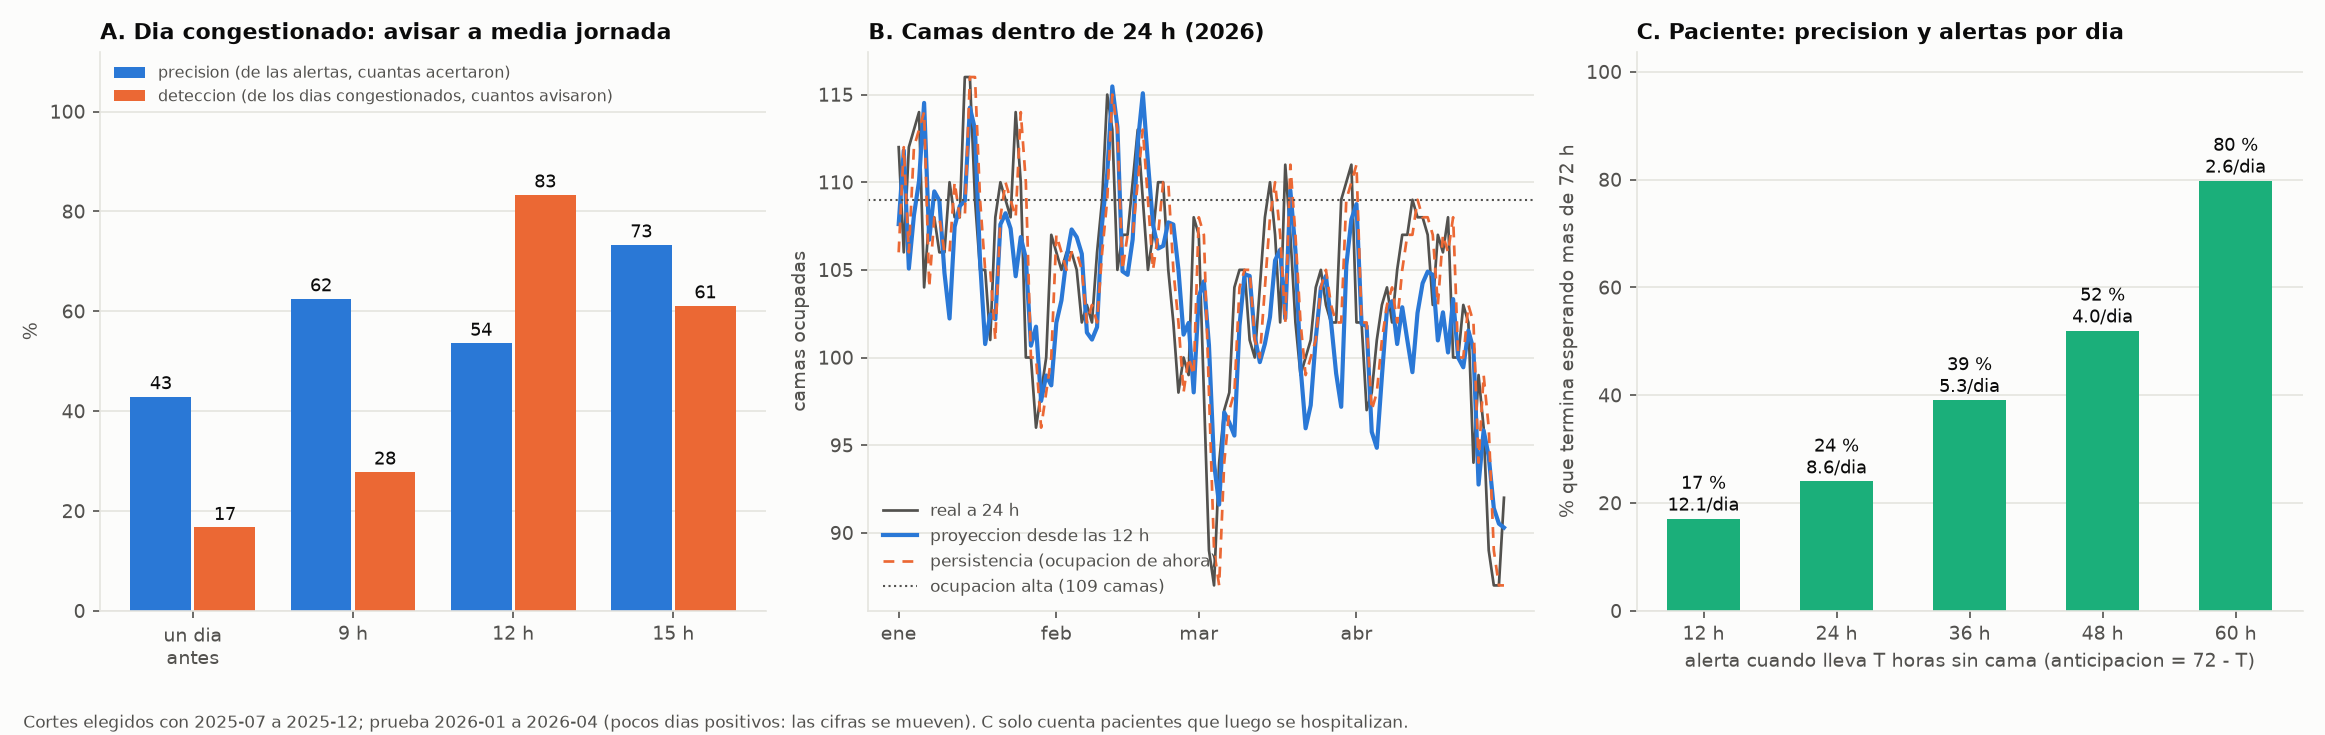
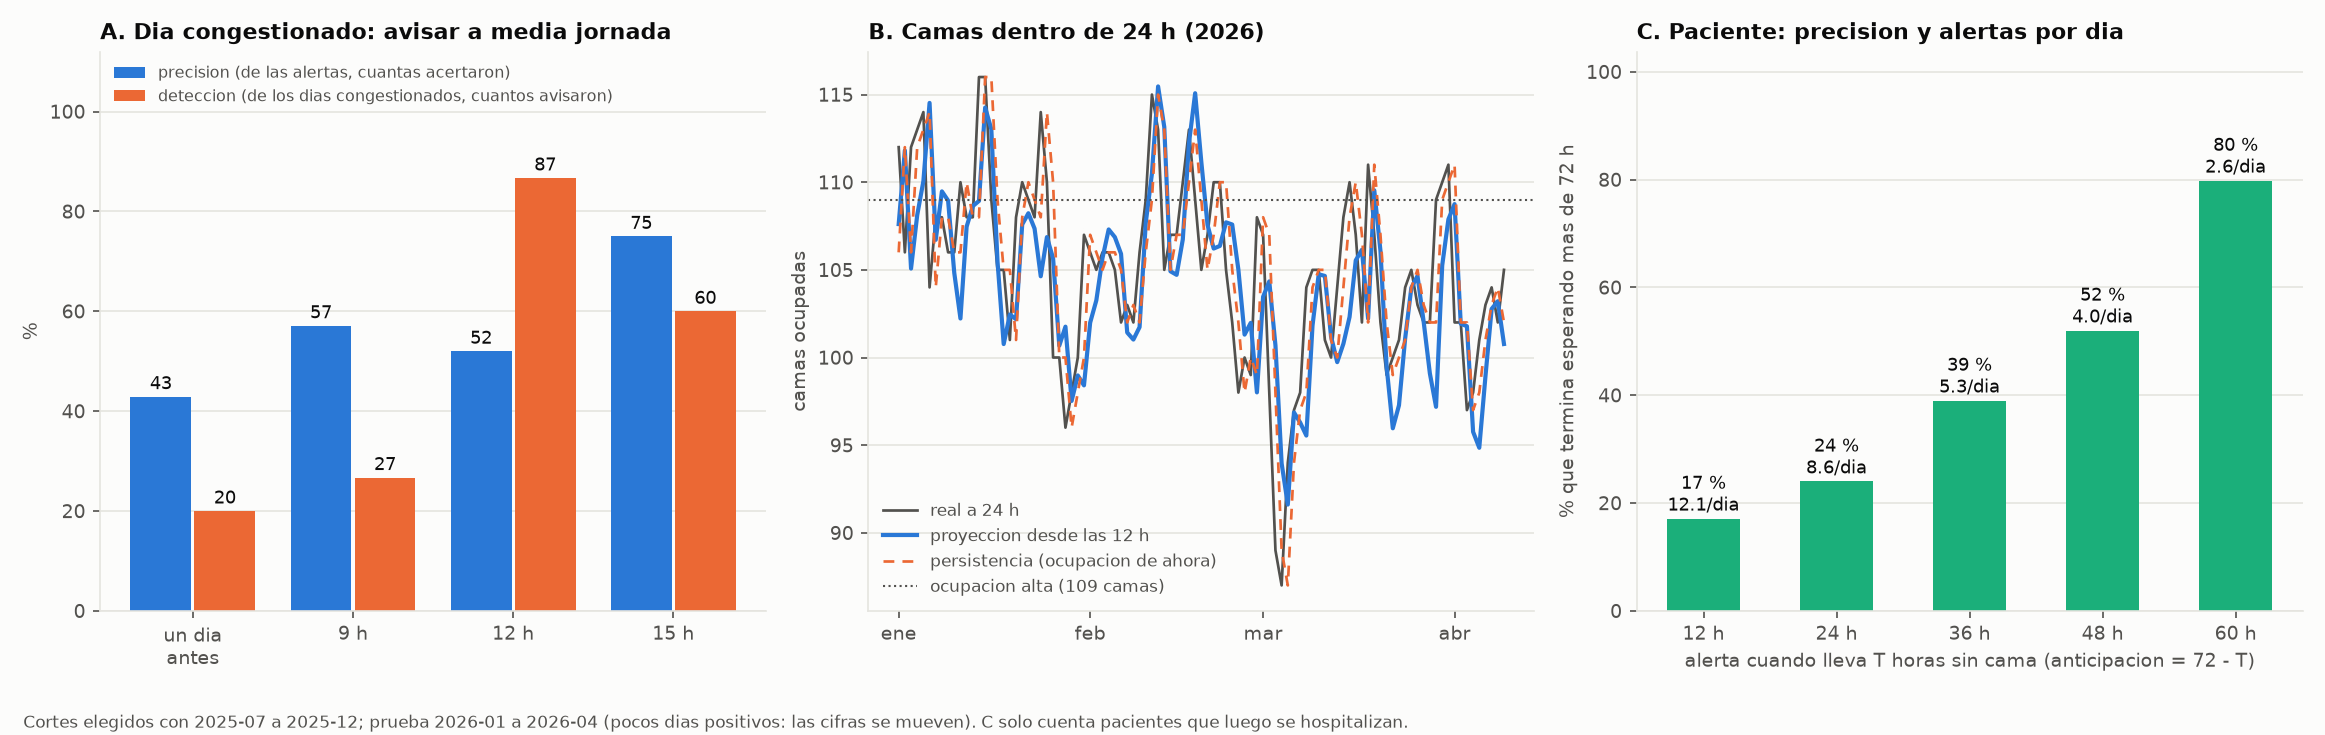
Ventana de analisis hasta el 9-abr-2026 en ocupacion, ingresos, altas y escenarios; revision final de la ocupacion de camas; ajustes del dashboard

diff --git a/src/prueba_2026.py b/src/prueba_2026.py
@@ -1,6 +1,6 @@
 """
 prueba_2026.py  -  version 1 (1-nov-2026)
-Pronostica TODO 2026 (1 de enero a 31 de mayo) desde el 31 de diciembre de 2025, usando solo lo que se sabia ese dia, y pone encima lo que
+Pronostica 2026 hasta el 9 de abril (fin del periodo confiable) desde el 31 de diciembre de 2025, usando solo lo que se sabia ese dia, y pone encima lo que
 paso de verdad. Sirve para ver donde el dato real sale de la banda, y que el modelo no puede anticipar la degradacion del registro desde el 10-abr-2026.
 
   - Linea azul: pronostico con el nivel "historico" (12 meses hasta diciembre de 2025).
@@ -26,7 +26,7 @@ RAIZ = Path(__file__).resolve().parent.parent
 TABLAS = RAIZ / "resultados" / "tablas"
 GRAFICOS = RAIZ / "resultados" / "graficos"
 CORTE = pd.Timestamp("2025-12-31")
-FIN = pd.Timestamp("2026-05-31")
+FIN = pd.Timestamp(mp.FIN_CONFIABLE)
 DIAS = (FIN - CORTE).days
 
 real = mp.cargar_panel(limpiar=False)
@@ -51,7 +51,7 @@ for obj, nombre, archivo in [("llegadas_con_atencion", "Llegadas con atención p
     DIARIO.append(pd.DataFrame({"fecha": ph.index.strftime("%Y-%m-%d"), "serie": obj, "real": y.values, "pronostico_historico": ph.values.round(1),
                                 "pronostico_reciente": pr.values.round(1), "banda_baja": lo.values.round(1), "banda_alta": hi.values.round(1),
                                 "real_dentro_de_la_banda": dentro.values.astype(int), "dias_adelante": lead}))
-    for nombre_p, mask in [("1 ene - 9 abr", ph.index < mp.INICIO_QUIEBRE), ("10 abr - 31 may (registro degradado)", ph.index >= mp.INICIO_QUIEBRE)]:
+    for nombre_p, mask in [("1 ene - 9 abr", ph.index <= FIN)]:
         yy, pp = y[mask], ph[mask]
         filas.append(dict(serie=obj, periodo=nombre_p, dias=int(mask.sum()), dentro_banda_pct=round(100 * dentro[mask].mean()),
                           real_promedio=round(yy.mean(), 1), pronostico_historico=round(pp.mean(), 1),
@@ -66,12 +66,9 @@ for obj, nombre, archivo in [("llegadas_con_atencion", "Llegadas con atención p
     ax.scatter(y.index[dentro.values], y.values[dentro.values], color="#222", s=16, zorder=3, label="real dentro de la banda")
     ax.scatter(y.index[~dentro.values], y.values[~dentro.values], color="#c0392b", s=26, zorder=3, label="real fuera de la banda")
     for a_ in (ax, ax2):
-        a_.axvline(pd.Timestamp(mp.INICIO_QUIEBRE), color="#c0392b", ls="--", lw=0.9)
         a_.grid(alpha=0.25)
-    ax.text(pd.Timestamp("2026-04-11"), ax.get_ylim()[1] * 0.97, "registro degradado", color="#c0392b", fontsize=9, va="top")
-    d_ant, d_may = dentro[ph.index < mp.INICIO_QUIEBRE].mean(), dentro[ph.index >= mp.INICIO_QUIEBRE].mean()
-    ax.set_title(f"{nombre} en 2026, pronosticado desde el 31-dic-2025: {100 * d_ant:.0f} % de los días reales dentro de la banda hasta el 9-abr, "
-                 f"{100 * d_may:.0f} % desde el 10-abr (registro degradado)", fontsize=11)
+    d_ant = dentro.mean()
+    ax.set_title(f"{nombre} en 2026 hasta el 9-abr, pronosticado desde el 31-dic-2025: {100 * d_ant:.0f} % de los días reales dentro de la banda", fontsize=11)
     ax.set_ylabel(nombre)
     ax.legend(fontsize=8, ncol=2, loc="lower left")
     y7, ph7, pr7 = y.rolling(7).mean(), ph.rolling(7).mean(), pr.rolling(7).mean()

diff --git a/src/alertas.py b/src/alertas.py
@@ -50,7 +50,7 @@ for _d in (TABLAS, GRAFICOS):
     _d.mkdir(parents=True, exist_ok=True)
 
 ENTRENA_HASTA, VALIDA_ENTRENA_HASTA, VALIDA_DESDE = "2025-12-31", "2025-06-30", "2025-07-01"
-PRUEBA_DESDE, PRUEBA_HASTA = "2026-01-01", "2026-04-30"
+PRUEBA_DESDE, PRUEBA_HASTA = "2026-01-01", "2026-04-09"
 HORAS_CORTE = [9, 12, 15]
 SEMANAS_UMBRAL = 12
 PERCENTIL_OCUP = 0.80       # "ocupacion alta" = percentil 80 de la ocupacion de las 12 h en el entrenamiento
@@ -249,8 +249,8 @@ pt.round(1).to_csv(TABLAS / "alertas_camas_dias.csv")
 # ----------------------------------------------------------------------
 titulo("C. ALERTA POR PACIENTE: LLEVA T HORAS DESDE QUE LLEGO Y AUN NO TIENE CAMA")
 seg = pd.read_csv(PROC / "segmentos.csv", usecols=["segmento", "horas", "ini", "franja", "en_estadisticas"], parse_dates=["ini"])
-e = seg[(seg.segmento == "espera_cama") & seg.en_estadisticas & (seg.ini >= "2023-02-01") & (seg.ini < "2026-05-01")].copy()
-dias_e = (pd.Timestamp("2026-05-01") - pd.Timestamp("2023-02-01")).days
+e = seg[(seg.segmento == "espera_cama") & seg.en_estadisticas & (seg.ini >= "2023-02-01") & (seg.ini < "2026-04-10")].copy()
+dias_e = (pd.Timestamp("2026-04-10") - pd.Timestamp("2023-02-01")).days
 print(f"estancias con espera de cama medida: {len(e)} en {dias_e} dias ({len(e) / dias_e:.1f} por dia)")
 filas = []
 for T in HORAS_T:

diff --git a/src/exportar_para_powerbi.py b/src/exportar_para_powerbi.py
@@ -46,7 +46,7 @@ DIAS = ["lunes", "martes", "miercoles", "jueves", "viernes", "sabado", "domingo"
 MESES = ["enero", "febrero", "marzo", "abril", "mayo", "junio", "julio", "agosto", "septiembre", "octubre", "noviembre", "diciembre"]
 EDADES = ["0-4", "5-14", "15-29", "30-44", "45-59", "60-74", "75+", "sin dato"]   # "sin dato": 21 episodios con edad imposible
 TIPOS = ["Urgencias", "Treatment urgency", "Ambulatorio", "Inpatient"]
-CAIDA_DESDE = pd.Timestamp("2026-05-01")
+CAIDA_DESDE = pd.Timestamp("2026-04-10")
 FECHA_INI, FECHA_FIN = "2023-01-01", "2026-07-31"
 
 
@@ -241,7 +241,7 @@ cifras = [
     ("camas_ocupadas_2025", oa.loc[2025, "ocupacion_media"], 105.0, 0.2),
     ("estancia_media_dias_2023", oa.loc[2023, "estancia_media_dias"], 4.57, 0.02),
     ("estancia_media_dias_2025", oa.loc[2025, "estancia_media_dias"], 5.31, 0.02),
-    ("llegadas_por_dia_panel", round(panel.llegadas.mean(), 1), 263.6, 0.5),
+    ("llegadas_por_dia_panel", round(panel.llegadas.mean(), 1), 266.1, 0.5),
     ("llegadas_total_bi_llegadas", int(ll.llegadas.sum()), 337194, 0),
 ]
 cc = pd.DataFrame(cifras, columns=["cifra", "valor", "esperado", "tolerancia"])

diff --git a/dashboard/app.py b/dashboard/app.py
@@ -95,8 +95,9 @@ def actualizar(dias, objetivo):
     fig.add_trace(go.Scatter(x=f.fecha, y=f.pronostico, mode="lines", line=dict(color=AZUL, width=2.4), name="Lo que se espera",
                              customdata=np.c_[f.banda_baja, f.banda_alta],
                              hovertemplate="%{x|%d-%m-%Y}<br>Se espera: %{y:.0f}<br>Rango probable: %{customdata[0]:.0f} a %{customdata[1]:.0f}<extra></extra>"))
-    fig.update_layout(title=f"{nombre.capitalize()}: día por día", hovermode="x unified", legend=dict(orientation="h", y=-0.15),
+    fig.update_layout(title=f"{nombre.capitalize()} esperados, día por día", hovermode="x unified", legend=dict(orientation="h", y=-0.15),
                       margin=dict(l=40, r=20, t=60, b=40), yaxis_title=nombre, template="simple_white")
+    fig.update_xaxes(tickformat="%d-%m" if dias <= 30 else "%m-%Y")      # fechas en numeros (plotly escribe los meses en ingles)
 
     e = ERR[objetivo]
     lead0 = int(f.dias_adelante.iloc[0])

diff --git a/src/impacto_llegada_tarde.py b/src/impacto_llegada_tarde.py
@@ -12,7 +12,7 @@ ENTRADAS  datos/procesados/segmentos.csv
 SALIDAS   resultados/tablas/impacto_llegada_tarde.csv
 
 OJO AL LEER
-  - Dias = del 2023-02-01 al 2026-05-01 (misma ventana que simulacion_altas.py; mayo 2026 en adelante tiene caida de datos).
+  - Dias = del 2023-02-01 al 2026-04-10 (misma ventana que simulacion_altas.py; mayo 2026 en adelante tiene caida de datos).
   - Con medianas el ahorro es grande; con promedios es chico porque la cola larga domina. Por eso R6 es de confianza baja.
   - Es una asociacion por hora de llegada, no una causa.
 """
@@ -24,7 +24,7 @@ RAIZ = Path(__file__).resolve().parent.parent
 TABLAS = RAIZ / "resultados" / "tablas"
 TABLAS.mkdir(parents=True, exist_ok=True)
 
-DESDE, HASTA = pd.Timestamp("2023-02-01"), pd.Timestamp("2026-05-01")
+DESDE, HASTA = pd.Timestamp("2023-02-01"), pd.Timestamp("2026-04-10")
 TARDE, MANANA = (13, 18), (6, 11)
 
 s = pd.read_csv(RAIZ / "datos" / "procesados" / "segmentos.csv", parse_dates=["ini"])

diff --git a/src/dependencia_carga.py b/src/dependencia_carga.py
@@ -43,7 +43,7 @@ for _d in (TABLAS, GRAFICOS):
 CANDIDATOS = ["espera_cama", "urgencias_antes_cama", "hueco_antes_cama"]
 CARGAS = {"llegadas_6h_previas": "llegadas 6 h previas", "llegadas_24h_previas": "llegadas 24 h previas",
           "ocup_hosp": "pacientes en cama", "ocup_tu": "pacientes en TU"}
-OCUP_DESDE, OCUP_HASTA = "2023-02-01", "2026-06-01"
+OCUP_DESDE, OCUP_HASTA = "2023-02-01", "2026-04-10"
 # criterio orientativo (se pueden discutir): una carga "importa" si subir un decil aumenta el tiempo al menos
 # UMBRAL_CARGA % con controles, y la razon entre el decil alto y el bajo es de al menos RAZON_ALTA
 UMBRAL_CARGA, RAZON_ALTA, UMBRAL_HORA = 1.0, 1.25, 15.0

diff --git a/src/construir_segmentos.py b/src/construir_segmentos.py
@@ -220,7 +220,7 @@ print(f"guardado: datos/procesados/segmentos{SUFIJO}.csv")
 # ----------------------------------------------------------------------
 titulo("2b. EFECTO DE CONTAR CADA ESTANCIA UNA VEZ (antes y despues)")
 DIAS = (pd.Timestamp("2026-07-01") - pd.Timestamp("2023-01-01")).days   # enero 2023 a junio 2026
-V0, V1 = pd.Timestamp("2023-03-01"), pd.Timestamp("2026-05-01")          # ventana confiable para camas
+V0, V1 = pd.Timestamp("2023-03-01"), pd.Timestamp("2026-04-10")          # ventana confiable para camas
 
 
 def camas_little(g):

diff --git a/src/simulacion_altas.py b/src/simulacion_altas.py
@@ -47,7 +47,7 @@ GRAFICOS = RAIZ / "resultados" / "graficos"
 for _d in (TABLAS, GRAFICOS):
     _d.mkdir(parents=True, exist_ok=True)
 
-DESDE, HASTA = pd.Timestamp("2023-03-01"), pd.Timestamp("2026-05-01")   # ventana estable de ocupacion
+DESDE, HASTA = pd.Timestamp("2023-03-01"), pd.Timestamp("2026-04-10")   # ventana estable de ocupacion (periodo confiable hasta el 9-abr-2026)
 HORA_TOPE_MANANA, HORA_MIN_MANANA = 12, 9
 PROPORCIONES = [0.10, 0.20, 0.30, 0.50, 1.00]
 REPETICIONES = 200

diff --git a/src/exportar_para_equipo.py b/src/exportar_para_equipo.py
@@ -28,7 +28,7 @@ RAIZ = Path(__file__).resolve().parent.parent
 PROC = RAIZ / "datos" / "procesados"
 SALIDA = PROC / "para_equipo"
 SALIDA.mkdir(parents=True, exist_ok=True)
-OCUP_DESDE, OCUP_HASTA = "2023-02-01", "2026-06-01"   # mismo rango confiable de preparar_variables.py
+OCUP_DESDE, OCUP_HASTA = "2023-02-01", "2026-04-10"   # mismo rango confiable de preparar_variables.py
 K = ["visit_occurrence_id", "episodio"]
 LLAVE_ESTANCIA = ["ingreso_cama", "alta"]
 

diff --git a/src/pronostico_demanda.py b/src/pronostico_demanda.py
@@ -62,8 +62,8 @@ for _d in (TABLAS, GRAFICOS):
     _d.mkdir(parents=True, exist_ok=True)
 
 ENTRENA_HASTA, VALIDA_ENTRENA_HASTA, VALIDA_DESDE = "2025-12-31", "2025-06-30", "2025-07-01"
-PRUEBA_DESDE, PRUEBA_HASTA = "2026-01-01", "2026-04-30"
-ESTRES_DESDE, FIN_DATOS = "2026-05-01", "2026-05-31"
+PRUEBA_DESDE, PRUEBA_HASTA = "2026-01-01", "2026-04-09"
+ESTRES_DESDE, FIN_DATOS = "2026-04-10", "2026-05-31"
 VENTANA_NIVEL = 28
 VENTANA_BANDA = 60
 HORIZONTES = [1, 7]

diff --git a/src/preparar_variables.py b/src/preparar_variables.py
@@ -57,7 +57,7 @@ for _d in (PROC, TABLAS, GRAFICOS, EXCEL):
 # y al final (las etapas abiertas a la fecha de extraccion se quitaron). Fuera de este
 # rango la ocupacion se marca como poco confiable.
 OCUP_DESDE = "2023-02-01"
-OCUP_HASTA = "2026-06-01"
+OCUP_HASTA = "2026-04-10"     # periodo confiable hasta el 9-abr-2026 (CLAUDE.md 4.9)
 UMBRAL_ESPERA_H = 24
 DIAS = ["lunes", "martes", "miercoles", "jueves", "viernes", "sabado", "domingo"]
 

diff --git a/src/altas_y_factores.py b/src/altas_y_factores.py
@@ -39,7 +39,7 @@ GRAFICOS = RAIZ / "resultados" / "graficos"
 for _d in (TABLAS, GRAFICOS):
     _d.mkdir(parents=True, exist_ok=True)
 
-DESDE, HASTA = "2023-02-01", "2026-06-01"
+DESDE, HASTA = "2023-02-01", "2026-04-10"
 MAX_H = 2160
 MIN_DX = 150          # un diagnostico entra al modelo si tiene al menos estos casos; el resto va a "otros"
 # criterios de la Puerta 3 (de criterio, se pueden discutir)
